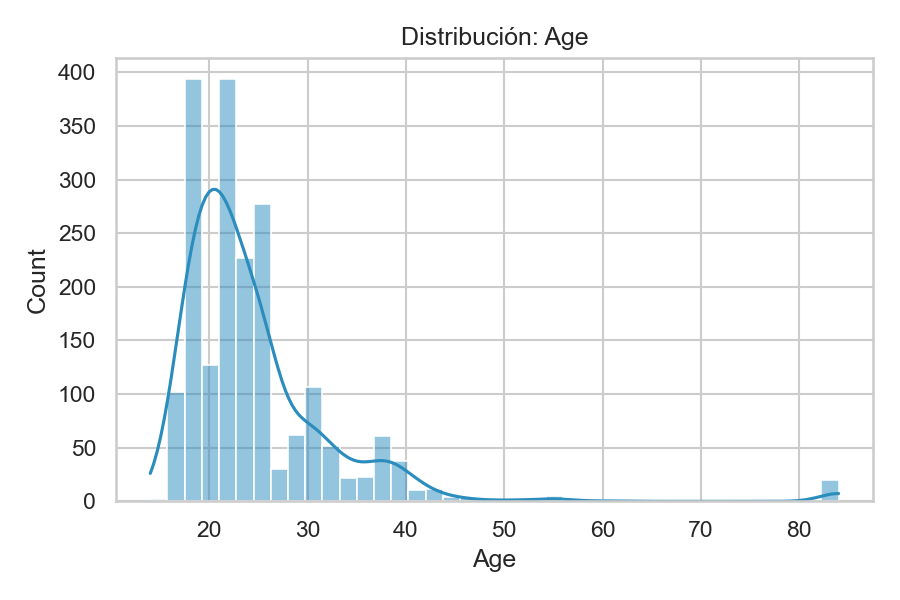
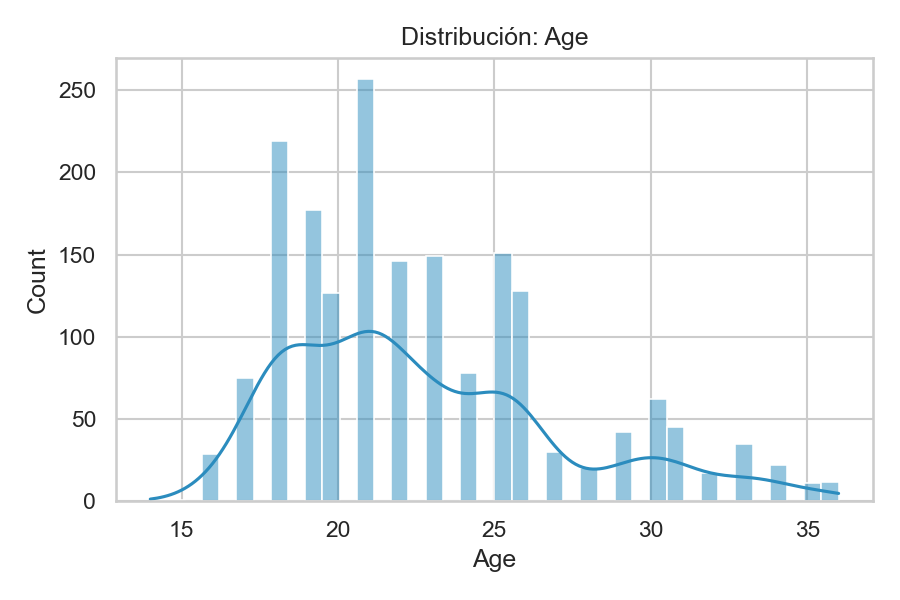
visualizaciones

diff --git a/visualizations.py b/visualizations.py
@@ -10,10 +10,8 @@ sns.set(style="whitegrid")
 
 def find_input_file():
     candidates = [
-        "obesity_dataset_clean.csv",
-        "obesity_hw_imputed.csv",
+        "data_clean.csv",
         "Tema_6.csv",
-        "ObesityDataSet_raw_and_data_sinthetic.csv",
     ]
     for f in candidates:
         if os.path.exists(f):
@@ -28,7 +26,6 @@ def ensure_output_dirs():
 def main():
     infile = find_input_file()
     print("Loading:", infile)
-    # suppress non-critical warnings to keep terminal output clean
     warnings.filterwarnings("ignore")
     sep = ";" if infile.endswith("_clean.csv") or infile.endswith("_hw_imputed.csv") or infile == "Tema_6.csv" else ","
     df = pd.read_csv(infile, sep=sep, skipinitialspace=True)
@@ -43,17 +40,42 @@ def main():
         num_cols.remove('index')
 
     target = 'NObeyesdad' if 'NObeyesdad' in df.columns else None
+    grouped_target = None
+    
+    FIXED_ORDER = ['Insufficient weight', 'Normal weight', 'Overweight', 'Obesity']
     if target:
-        counts = df[target].value_counts()
-        print('\n=== Distribución de ' + target + ' ===')
+        # Map 4 clases: Insufficient, Normal, Obesity, Overweight
+        def map_to_four(c):
+            if pd.isna(c):
+                return np.nan
+            s = str(c).strip().lower()
+            if 'insufficient' in s or 'underweight' in s:
+                return 'Insufficient weight'
+            if s.startswith('normal') or s == 'normal':
+                return 'Normal weight'
+            if 'overweight' in s:
+                return 'Overweight'
+            if 'obesity' in s or 'obesity_type' in s or 'obesitytype' in s:
+                return 'Obesity'
+    
+            return ' '.join([w.capitalize() for w in s.split()])
+
+        grouped_col = target + '_grouped'
+        df[grouped_col] = df[target].apply(map_to_four)
+        df[grouped_col] = pd.Categorical(df[grouped_col], categories=FIXED_ORDER, ordered=True)
+        grouped_target = grouped_col
+
+        counts = df[grouped_target].value_counts().reindex(FIXED_ORDER).fillna(0)
+        print('\n=== Distribución unificada (' + grouped_target + ') ===')
         pct = (counts / counts.sum() * 100).round(2)
         display_df = pd.DataFrame({'cantidad': counts, 'porcentaje': pct})
         print(display_df.to_string())
-        n_classes = len(counts)
-        palette = sns.color_palette('tab20', n_colors=n_classes)
+
+        available_order = [o for o in FIXED_ORDER if o in df[grouped_target].cat.categories and (df[grouped_target] == o).any()]
+        palette = sns.color_palette('Set2', n_colors=len(available_order))
         plt.figure(figsize=(8,6))
-        sns.countplot(y=target, data=df, order=counts.index, palette=palette)
-        plt.title('Distribución de NObeyesdad')
+        sns.countplot(y=grouped_target, data=df, order=available_order, palette=palette)
+        plt.title('Distribución (agrupada) de NObeyesdad')
         plt.tight_layout()
         plt.savefig('outputs/class_distribution.png', dpi=150)
         plt.close()
@@ -89,17 +111,21 @@ def main():
     if target:
         col = 'Age'
         if col in df.columns:
-            group_stats = df.groupby(target)[col].agg(['count','mean','median','std']).sort_values('median')
-            print(f"\n=== Estadísticas de {col} por {target} ===")
+            group_for_stats = grouped_target if grouped_target is not None else target
+            if group_for_stats == grouped_target:
+                group_stats = df.groupby(group_for_stats)[col].agg(['count','mean','median','std']).reindex(FIXED_ORDER).dropna(how='all').sort_values('median')
+            else:
+                group_stats = df.groupby(group_for_stats)[col].agg(['count','mean','median','std']).sort_values('median')
+            print(f"\n=== Estadísticas de {col} por {group_for_stats} ===")
             gs = group_stats.rename(columns={'count':'cantidad','mean':'media','median':'mediana','std':'desviación_estándar'})
             print(gs.round(3).to_string())
 
             plt.figure(figsize=(10,6))
-            order = group_stats.sort_values('median').index
-            sns.boxplot(x=col, y=target, data=df, order=order, palette='vlag')
-            plt.title(f'{col} por {target}')
+            order = [o for o in FIXED_ORDER if o in group_stats.index]
+            sns.boxplot(x=col, y=group_for_stats, data=df, order=order, palette='vlag')
+            plt.title(f'{col} por {group_for_stats}')
             plt.tight_layout()
-            plt.savefig(f'outputs/box_{col}_by_{target}.png', dpi=150)
+            plt.savefig(f'outputs/box_{col}by{group_for_stats}.png', dpi=150)
             plt.close()
 
     # Height vs Weight scatter 
@@ -111,8 +137,9 @@ def main():
 
         plt.figure(figsize=(8,6))
         if target:
-            palette = sns.color_palette('tab20', n_colors=df[target].nunique())
-            sns.scatterplot(x='Height', y='Weight', hue=target, data=sub, palette=palette, alpha=0.9, s=40)
+            hue_col = grouped_target if grouped_target is not None else target
+            palette = sns.color_palette('tab20', n_colors=len(FIXED_ORDER))
+            sns.scatterplot(x='Height', y='Weight', hue=hue_col, data=sub, palette=palette, alpha=0.9, s=40)
             plt.legend(bbox_to_anchor=(1.05,1), loc='upper left')
         else:
             plt.scatter(sub['Height'], sub['Weight'], s=10, alpha=0.9, color='#1f78b4')
@@ -124,17 +151,20 @@ def main():
     cat_cols = [c for c in ['MTRANS','FAVC','CAEC','CALC','SMOKE','SCC','family_history_with_overweight'] if c in df.columns]
     for col in cat_cols:
         if target:
-            cros = pd.crosstab(df[col], df[target], normalize='index')*100
+            cross_col = grouped_target if grouped_target is not None else target
+            cros = pd.crosstab(df[col], df[cross_col], normalize='index')*100
+            present_cols = [c for c in FIXED_ORDER if c in cros.columns]
+            cros = cros.reindex(columns=present_cols)
             top = cros.iloc[:20]
-            print(f"\n=== Tabla % de {col} por {target} (primeras 20 filas) ===")
+            print(f"\n=== Tabla % de {col} por {cross_col} (primeras 20 filas) ===")
             print(top.round(2).to_string())
             n_series = top.shape[1]
             colors = sns.color_palette('tab20', n_colors=n_series)
             ax = top.plot(kind='bar', stacked=True, figsize=(10,6), color=colors)
             plt.ylabel('% within category')
-            plt.title(f'{col} (%) by {target}')
+            plt.title(f'{col} (%) by {cross_col}')
             plt.tight_layout()
-            outname = f'outputs/{col}_by_{target}_stacked.png'
+            outname = f'outputs/{col}by{cross_col}.png'
             plt.savefig(outname, dpi=150)
             plt.close()
 
